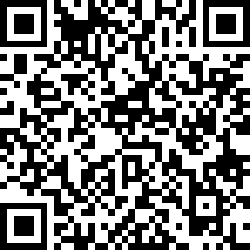
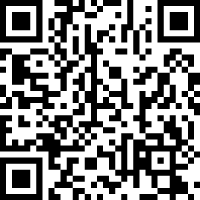
btc

diff --git a/source/donate/index.md b/source/donate/index.md
@@ -5,7 +5,7 @@ date: 2016-11-14 02:31:11
 ### 如果你觉得我做的还不错，可以扫码打赏，打赏我杯咖啡 ~ 非常感谢 ~
 
 ### BTC
-<center>Address: 1GKKmGhFLRatEBmCyVDxpWui9JvBL9dR5q</center>
+<center>Address: 16R1YESSRYREGV6nLhXYNHSfrs1SUYJLcD</center>
 <img src="/img/btc.png" style="width: 300px; margin: 0 auto;" alt="微信">
 
 ### Wechat
